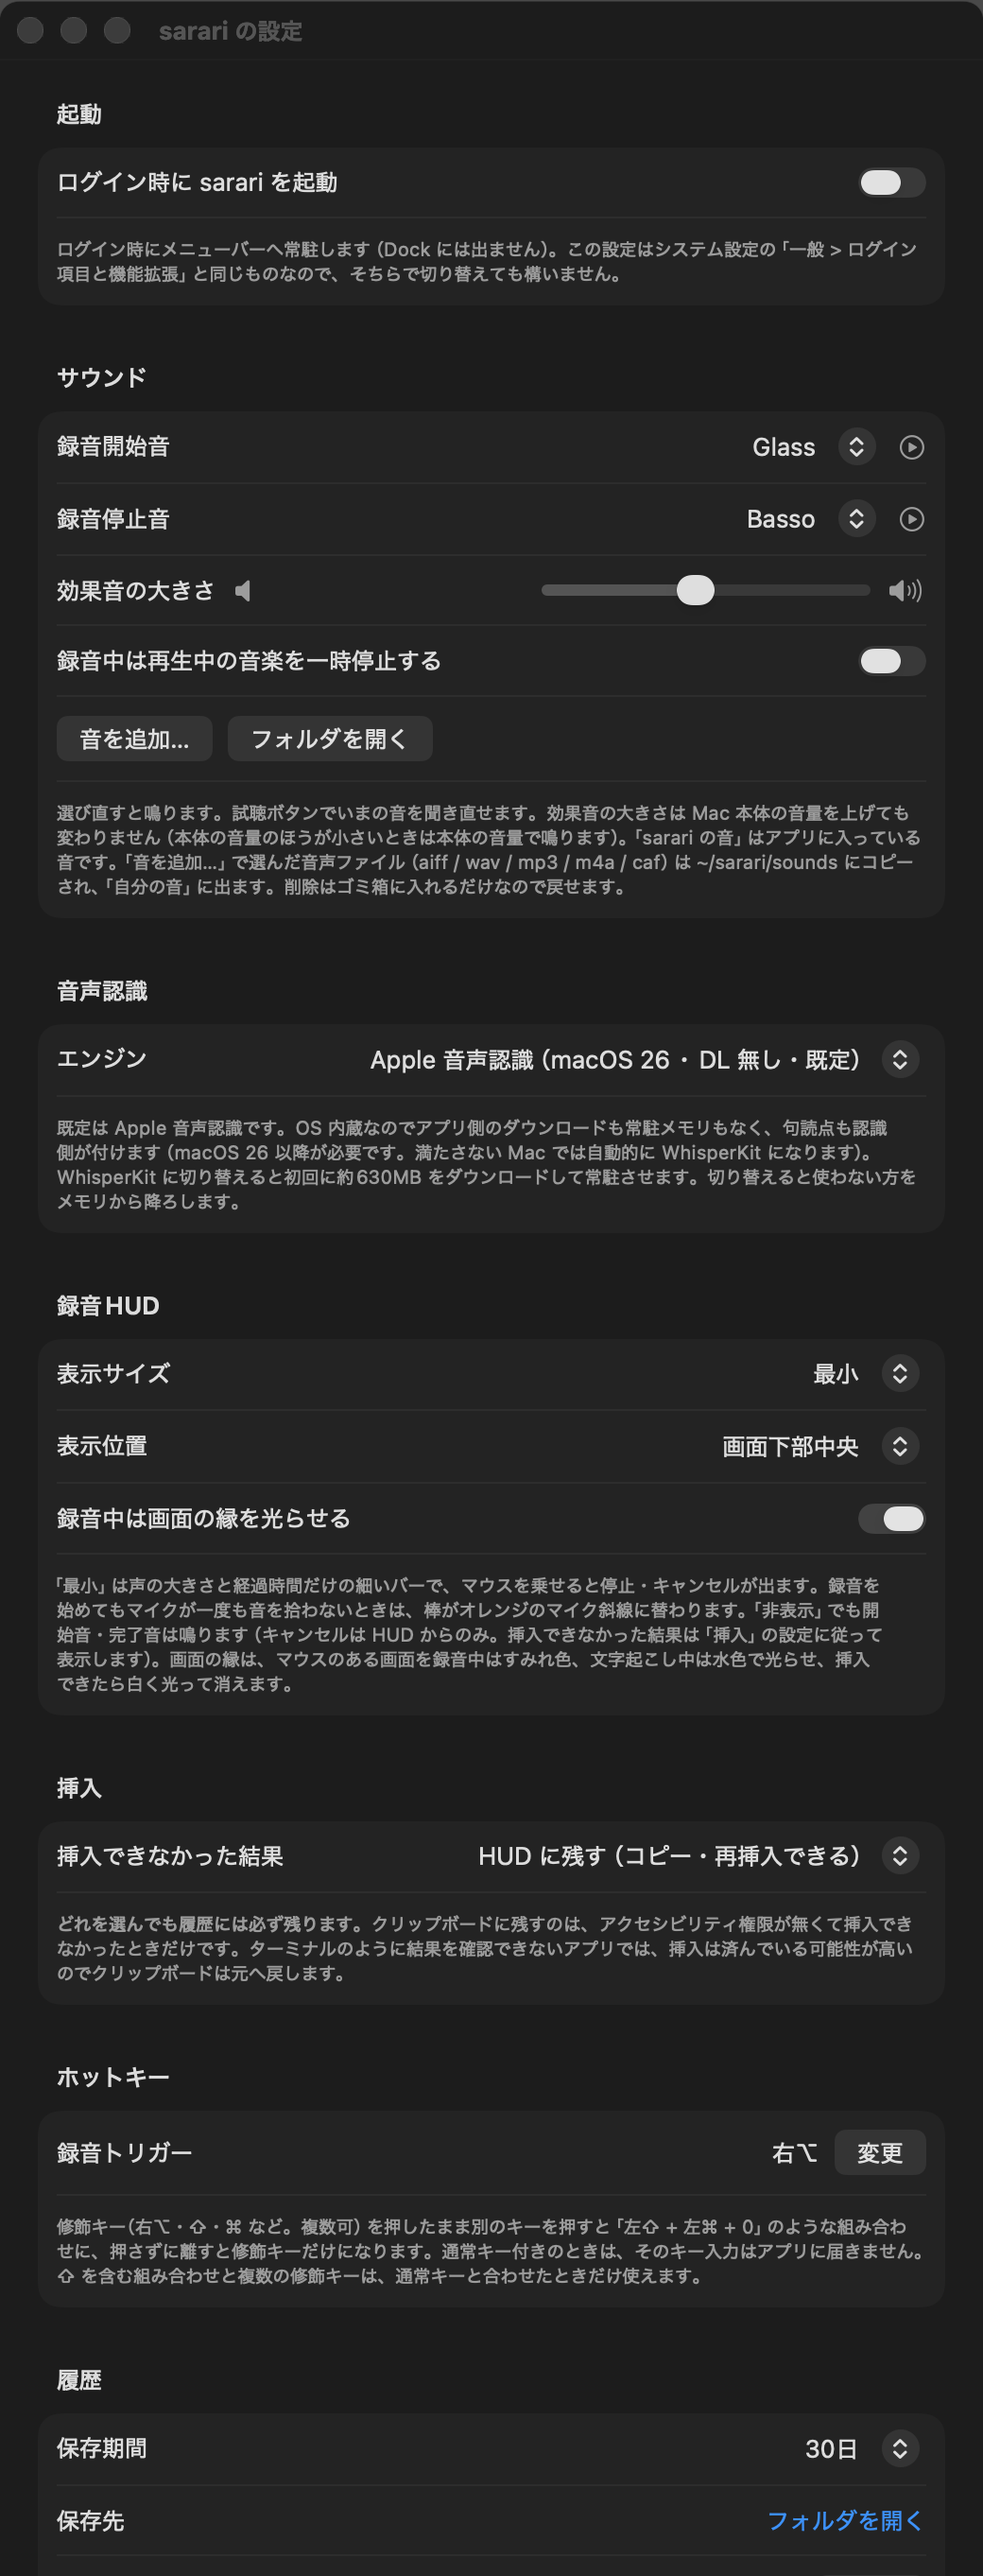
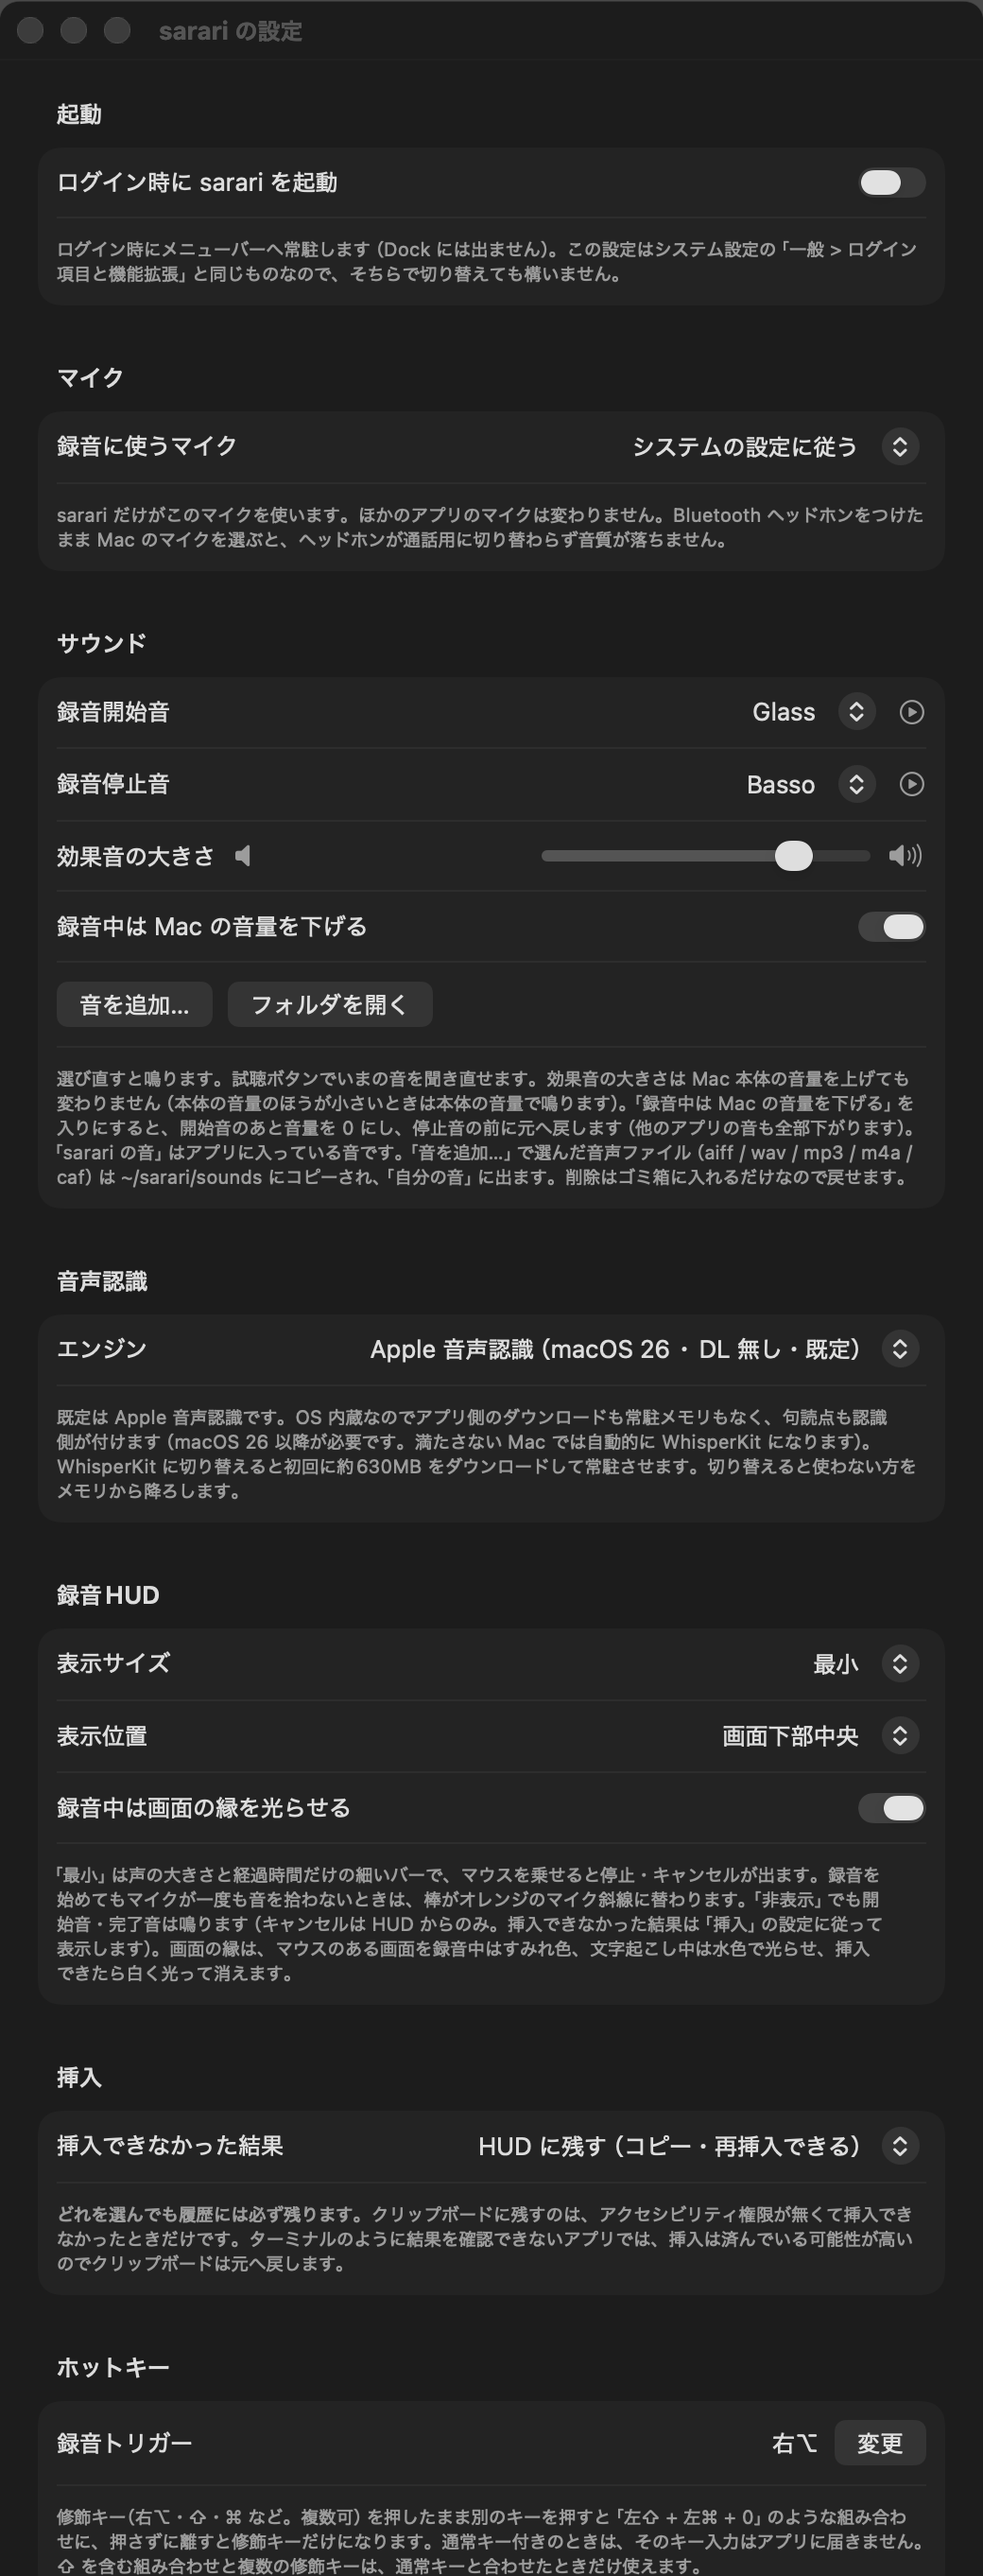
feat(audio): 設定で録音に使うマイクを選べるようにする
sarari だけ別のマイクで録れるようにする。Bluetooth ヘッドホンをつけたまま
Mac のマイクを選べば、ヘッドホンは通話用に切り替わらない。
選んだマイクがつながっていないときはシステムの既定で録る。

Closes #140

Changed region(s): [[0.0615, 0.1248, 0.9538, 1.0], [0.2462, 0.2496, 0.3077, 0.2808]]

diff --git a/Sources/InputDevices.swift b/Sources/InputDevices.swift
@@ -1,0 +1,95 @@
+import Combine
+import CoreAudio
+import Foundation
+
+/// 録音に使える入力デバイス（Issue #140）。
+struct InputDevice: Identifiable, Hashable, Sendable {
+    /// 保存に使う。`AudioDeviceID` は再接続や再起動で変わるので保存しない。
+    let uid: String
+    let name: String
+    var id: String { uid }
+}
+
+/// CoreAudio から入力デバイスを引く。
+enum InputDevices {
+    /// 今つながっている入力デバイス（入力チャンネルを持つものだけ）。
+    nonisolated static func all() -> [InputDevice] {
+        deviceIDs().compactMap { id in
+            guard hasInput(id), let uid = uid(of: id), let name = name(of: id) else { return nil }
+            return InputDevice(uid: uid, name: name)
+        }
+    }
+
+    /// UID から今の `AudioDeviceID` を引く。つながっていない・入力を持たないなら nil。
+    nonisolated static func deviceID(uid: String) -> AudioDeviceID? {
+        deviceIDs().first { self.uid(of: $0) == uid && hasInput($0) }
+    }
+
+    // MARK: CoreAudio
+
+    private nonisolated static func deviceIDs() -> [AudioDeviceID] {
+        var address = AudioObjectPropertyAddress(
+            mSelector: kAudioHardwarePropertyDevices,
+            mScope: kAudioObjectPropertyScopeGlobal,
+            mElement: kAudioObjectPropertyElementMain)
+        let system = AudioObjectID(kAudioObjectSystemObject)
+        var size: UInt32 = 0
+        guard AudioObjectGetPropertyDataSize(system, &address, 0, nil, &size) == noErr, size > 0 else { return [] }
+        var ids = [AudioDeviceID](repeating: 0, count: Int(size) / MemoryLayout<AudioDeviceID>.size)
+        guard AudioObjectGetPropertyData(system, &address, 0, nil, &size, &ids) == noErr else { return [] }
+        return ids
+    }
+
+    private nonisolated static func hasInput(_ id: AudioDeviceID) -> Bool {
+        var address = AudioObjectPropertyAddress(
+            mSelector: kAudioDevicePropertyStreams,
+            mScope: kAudioDevicePropertyScopeInput,
+            mElement: kAudioObjectPropertyElementMain)
+        var size: UInt32 = 0
+        return AudioObjectGetPropertyDataSize(id, &address, 0, nil, &size) == noErr && size > 0
+    }
+
+    private nonisolated static func uid(of id: AudioDeviceID) -> String? {
+        string(kAudioDevicePropertyDeviceUID, of: id)
+    }
+
+    private nonisolated static func name(of id: AudioDeviceID) -> String? {
+        string(kAudioObjectPropertyName, of: id)
+    }
+
+    private nonisolated static func string(_ selector: AudioObjectPropertySelector, of id: AudioDeviceID) -> String? {
+        var address = AudioObjectPropertyAddress(
+            mSelector: selector,
+            mScope: kAudioObjectPropertyScopeGlobal,
+            mElement: kAudioObjectPropertyElementMain)
+        var value: Unmanaged<CFString>?
+        var size = UInt32(MemoryLayout<Unmanaged<CFString>?>.size)
+        guard AudioObjectGetPropertyData(id, &address, 0, nil, &size, &value) == noErr,
+              let value else { return nil }
+        return value.takeRetainedValue() as String
+    }
+}
+
+/// 設定画面の選択肢。デバイスの抜き差しで作り直す。
+///
+/// 設定画面の `.onDisappear` はウィンドウを閉じても発火しないので（SettingsView 参照）、
+/// 監視は画面に結びつけず 1 つだけ持ち続ける。
+@MainActor
+final class InputDeviceList: ObservableObject {
+    static let shared = InputDeviceList()
+
+    @Published private(set) var devices: [InputDevice] = InputDevices.all()
+
+    private init() {
+        var address = AudioObjectPropertyAddress(
+            mSelector: kAudioHardwarePropertyDevices,
+            mScope: kAudioObjectPropertyScopeGlobal,
+            mElement: kAudioObjectPropertyElementMain)
+        // ブロックは main キューで呼ばれる。
+        AudioObjectAddPropertyListenerBlock(
+            AudioObjectID(kAudioObjectSystemObject), &address, DispatchQueue.main
+        ) { [weak self] _, _ in
+            MainActor.assumeIsolated { self?.devices = InputDevices.all() }
+        }
+    }
+}

diff --git a/Sources/SettingsView.swift b/Sources/SettingsView.swift
@@ -25,6 +25,8 @@ struct GeneralSettingsView: View {
     /// ホットキーの録り中か（AppState の録音状態とは無関係）。
     /// ウィンドウを閉じても監視が残らないよう、状態は View の外に置く（Issue #78）。
     @ObservedObject private var hotKeyCapture = HotKeyCapture.shared
+    /// 録音に使うマイクの選択肢（Issue #140）。
+    @ObservedObject private var inputDevices = InputDeviceList.shared
     /// 履歴の全削除は取り消せないので必ず確認する（Issue #81）。
     @State private var isConfirmingDeleteAll = false
     /// 取り込んだ音の一覧（Issue #124）。取り込み・削除の直後に選択肢へ反映するため
@@ -32,6 +34,12 @@ struct GeneralSettingsView: View {
     @State private var customSounds: [String] = SoundPlayer.customSounds()
     /// 取り込みに失敗したファイルの理由（成功したら消す）。
     @State private var soundImportError: String?
+
+    /// 選んだマイクがつながっているか。「システムの設定に従う」なら true。
+    private var isInputConnected: Bool {
+        guard let uid = settings.inputDeviceUID else { return true }
+        return inputDevices.devices.contains { $0.uid == uid }
+    }
 
     var body: some View {
         Form {
@@ -81,6 +89,33 @@ struct GeneralSettingsView: View {
                         .foregroundStyle(.red)
                         .fixedSize(horizontal: false, vertical: true)
                 }
+            }
+
+            Section("マイク") {
+                Picker("録音に使うマイク", selection: Binding(
+                    get: { settings.inputDeviceUID },
+                    set: { uid in
+                        settings.inputDeviceUID = uid
+                        settings.inputDeviceName = inputDevices.devices.first { $0.uid == uid }?.name
+                    }
+                )) {
+                    Text("システムの設定に従う").tag(String?.none)
+                    ForEach(inputDevices.devices) { device in
+                        Text(device.name).tag(String?.some(device.uid))
+                    }
+                    // 選んだマイクを外していても、選択が消えて見えないように残す。
+                    if let uid = settings.inputDeviceUID, !isInputConnected {
+                        Text("\(settings.inputDeviceName ?? "選んだマイク")（つながっていません）")
+                            .tag(String?.some(uid))
+                    }
+                }
+                Text(isInputConnected
+                     ? "sarari だけがこのマイクを使います。ほかのアプリのマイクは変わりません。"
+                       + "Bluetooth ヘッドホンをつけたまま Mac のマイクを選ぶと、ヘッドホンが通話用に切り替わらず音質が落ちません。"
+                     : "選んだマイクがつながっていないので、システムの設定のマイクで録ります。")
+                    .font(.caption)
+                    .foregroundStyle(.secondary)
+                    .fixedSize(horizontal: false, vertical: true)
             }
 
             Section("サウンド") {

diff --git a/Sources/AudioRecorder.swift b/Sources/AudioRecorder.swift
@@ -44,6 +44,10 @@ final class AudioRecorder {
 
     /// 今の録音で、構成の変化からエンジンを作り直した回数。上限を超えたら締める。
     private var restartCount = 0
+
+    /// 録音に使うマイクの UID（Issue #140）。nil ならシステムの既定の入力。
+    /// 録音を始める前に呼ぶ側が設定する。
+    var preferredInputUID: String?
     /// 1 回の録音で作り直してよい回数。Bluetooth は開始時の 1 回で足りる。
     /// 何度も続くのは抜き差しを繰り返しているなど、録り続けても意味がない状況。
     private static let maxRestarts = 3
@@ -119,6 +123,8 @@ final class AudioRecorder {
         observeConfigurationChange(of: engine)
 
         let input = engine.inputNode
+        // フォーマットを読む前に向け先を決める（読んだあとに変えると前のデバイスの形式が残る）。
+        selectPreferredInput(of: input)
         let inputFormat = input.outputFormat(forBus: 0)
         // 入力デバイスが無いと sampleRate 0 / channelCount 0 が返る。検証せずに
         // installTap へ渡すと AVAudioEngine が不正フォーマットで例外を投げる（Issue #77）。
@@ -154,6 +160,23 @@ final class AudioRecorder {
             throw error
         }
         Log.audio.info("入力 \(Int(inputFormat.sampleRate), privacy: .public)Hz / \(inputFormat.channelCount, privacy: .public)ch で録音を始めました")
+    }
+
+    /// 設定で選んだマイクに入力を向ける。つながっていない・向けられないときはシステムの既定のまま。
+    private func selectPreferredInput(of input: AVAudioInputNode) {
+        guard let uid = preferredInputUID else { return }
+        guard let device = InputDevices.deviceID(uid: uid) else {
+            Log.audio.notice("設定したマイクがつながっていないため、システムの設定のマイクで録ります")
+            return
+        }
+        guard let unit = input.audioUnit else { return }
+        var id = device
+        let status = AudioUnitSetProperty(
+            unit, kAudioOutputUnitProperty_CurrentDevice, kAudioUnitScope_Global, 0,
+            &id, UInt32(MemoryLayout<AudioDeviceID>.size))
+        if status != noErr {
+            Log.audio.error("設定したマイクに切り替えられませんでした（\(status, privacy: .public)）。システムの設定のマイクで録ります")
+        }
     }
 
     /// 通知は今のエンジンからだけ受ける（捨てたエンジンの通知で今の録音を触らない）。

diff --git a/Sources/SettingsStore.swift b/Sources/SettingsStore.swift
@@ -34,6 +34,15 @@ final class SettingsStore: ObservableObject {
     @Published var lowerVolumeWhileRecording: Bool {
         didSet { UserDefaults.standard.set(lowerVolumeWhileRecording, forKey: "lowerVolumeWhileRecording") }
     }
+    /// 録音に使うマイクの UID（Issue #140）。nil ならシステムの設定に従う。
+    /// ヘッドホンをつけたまま Mac のマイクで録る（ヘッドホンを通話用に切り替えない）ために使う。
+    @Published var inputDeviceUID: String? {
+        didSet { UserDefaults.standard.set(inputDeviceUID, forKey: "inputDeviceUID") }
+    }
+    /// 選んだマイクの名前。つながっていないときに設定画面で名前を出すためだけに持つ。
+    @Published var inputDeviceName: String? {
+        didSet { UserDefaults.standard.set(inputDeviceName, forKey: "inputDeviceName") }
+    }
     /// 挿入できなかった結果をどこに残すか（Issue #67）。
     ///
     /// 以前は `showResultPanel` と `keepResultOnClipboardWhenUnsure` の 2 つの Bool に
@@ -155,6 +164,8 @@ final class SettingsStore: ObservableObject {
         lowerVolumeWhileRecording = UserDefaults.standard.object(forKey: "lowerVolumeWhileRecording") as? Bool
             ?? UserDefaults.standard.bool(forKey: "pauseMediaWhileRecording")
         resultRetention = Self.storedResultRetention()
+        inputDeviceUID = UserDefaults.standard.string(forKey: "inputDeviceUID")
+        inputDeviceName = UserDefaults.standard.string(forKey: "inputDeviceName")
         let storedExtra = (UserDefaults.standard.object(forKey: "hotKeyExtraKeyCode") as? Int).flatMap(UInt16.init(exactly:))
         let storedModifiers = Self.storedHotKeyModifiers()
         // 手で書かれた・古いビルドが残した「成立しない組み合わせ」は既定に戻す（誤爆・永久に反応しない を防ぐ）。

diff --git a/Sources/AppController.swift b/Sources/AppController.swift
@@ -257,6 +257,7 @@ final class AppController {
         }
         let generation = guardState.begin()
         do {
+            recorder.preferredInputUID = SettingsStore.shared.inputDeviceUID
             try recorder.start()
             recordingStartedAt = Date()
             state.update(.recording)

diff --git a/docs/MANUAL.md b/docs/MANUAL.md
@@ -83,6 +83,7 @@
 | 録音キーを右 ⌥ から変えたい | 一般 › ホットキー › 「変更」を押して使いたい修飾キー（複数可）を押す。押したまま別のキーを押せば「右⌥ + S」「左⇧ + 左⌘ + 0」のような組み合わせになる |
 | ゲームコントローラーやキーマッパーから録音したい | JoyKeyMapper などは修飾キーを左側として送るが、sarari は他アプリが合成したキーイベントは**左右を問わず**受ける。右⌥ 設定のままでよい。実キーボードでは従来どおり左右を区別する |
 | 開始音・停止音を消したい／変えたい | 一般 › サウンド（「なし」も選べる） |
+| ヘッドホンをつけたまま Mac のマイクで録りたい | 一般 › マイク › 録音に使うマイク で Mac のマイクを選ぶ。ほかのアプリのマイクは変わらない |
 | 音楽の音量を上げると開始音・停止音までうるさい | 一般 › サウンド › 効果音の大きさ |
 | 録音中のパネルが邪魔 | 一般 › 録音HUD › 表示サイズを「非表示」に |
 | パネルを画面の上に出したい | 一般 › 録音HUD › 表示位置 |
@@ -107,6 +108,12 @@
 <img class="shot window light-only" src="./screens/settings-general.png#gh-light-mode-only" width="520" alt="設定の一般タブ。サウンド・音声認識・録音HUD・挿入・ホットキー・履歴"><img class="shot window dark-only" src="./screens/settings-general-dark.png#gh-dark-mode-only" width="520" alt="設定の一般タブ。サウンド・音声認識・録音HUD・挿入・ホットキー・履歴">
 
 </details>
+
+**マイク**
+
+| 項目 | 既定 | いつ変えるか |
+|---|---|---|
+| 録音に使うマイク | システムの設定に従う | sarari だけ別のマイクで録りたいとき。Bluetooth ヘッドホンをつけたまま Mac のマイクを選ぶと、ヘッドホンが通話用に切り替わらない（音質が落ちず、切り替えの音も鳴らない）。選んだマイクがつながっていないときは、システムの設定のマイクで録る |
 
 **サウンド**
 

diff --git a/docs/changelog.md b/docs/changelog.md
@@ -6,6 +6,7 @@
 
 ## 次の版
 
+- 設定の一般タブで**録音に使うマイクを選べる**ようにしました。Bluetooth ヘッドホンをつけたまま Mac のマイクで録れます。ほかのアプリのマイクは変わりません（[#140](https://github.com/kenta3578/sarari/issues/140)）
 - **Bluetooth ヘッドセットのマイクで録り始めた直後に録音が止まらない**ようにしました。録音中に入力デバイスが変わったら、新しい入力に切り替えて録り続けます。それまでの音声も残ります。切り替えられないときだけ、今までどおり切り替え前までの音声で処理して黄の「!」を出します。ヘッドセットの切り替えで聞こえなかった開始音も、切り替わったあとに鳴らし直します（[#139](https://github.com/kenta3578/sarari/issues/139)）
 
 ## v0.4.0（2026-10-31）
